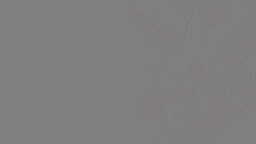
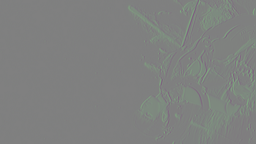
用原始 CUBIN 校正融合权重物理偏移

diff --git a/wechat/assets/297/block0_reference.py b/wechat/assets/297/block0_reference.py
@@ -39,7 +39,7 @@ def load_block0(
     tensors: dict[str, torch.Tensor] = {}
     for item in layout["tensors"]:
         begin = int(item["element_offset"])
-        if item["name"] == "attn_bias_padding":
+        if item["name"].endswith("padding"):
             continue
         if item.get("storage") == "float32_packed":
             count = int(np.prod(item["shape"]))
@@ -74,9 +74,6 @@ def load_fused_block(
         [
             ("weight1", (hidden, width)),
             ("weight2", (width, hidden)),
-            ("ffn_cos_skip", (width,)),
-            ("qkv_weight", (3 * width // 2, width)),
-            ("attn_bias", (heads, 64, 64)),
         ]
     )
     tensors: dict[str, torch.Tensor] = {}
@@ -87,7 +84,21 @@ def load_fused_block(
             values[offset : offset + count].astype(np.float32)
         ).reshape(shape)
         offset += count
-    offset += 16  # physical padding after the logical relative-attention bias
+    offset += 8
+    tensors["ffn_cos_skip"] = torch.from_numpy(
+        values[offset : offset + width].astype(np.float32)
+    )
+    offset += width
+    qkv_count = 3 * (width // 2) * width
+    tensors["qkv_weight"] = torch.from_numpy(
+        values[offset : offset + qkv_count].astype(np.float32)
+    ).reshape(3 * width // 2, width)
+    offset += qkv_count
+    bias_count = heads * 64 * 64
+    tensors["attn_bias"] = torch.from_numpy(
+        values[offset : offset + bias_count].astype(np.float32)
+    ).reshape(heads, 64, 64)
+    offset += bias_count
     scale = np.frombuffer(values[offset : offset + 16].tobytes(), dtype="<f4", count=heads).copy()
     tensors["attn_scale"] = torch.from_numpy(scale)
     offset += 16
@@ -101,10 +112,13 @@ def load_fused_block(
     )
     offset += width
     tail = values.size - offset
-    if tail not in (0, 8, allowed_extra):
+    padding = 16 if width == 256 else 8
+    if tail not in (padding, padding + allowed_extra):
         raise ValueError(f"block{block}: unexplained fused tail {values.size - offset}")
-    if tail == allowed_extra and allowed_extra:
-        tensors["_extra"] = torch.from_numpy(values[offset:].astype(np.float32))
+    if tail == padding + allowed_extra and allowed_extra:
+        tensors["_extra"] = torch.from_numpy(
+            values[offset : values.size - padding].astype(np.float32)
+        )
     return tensors
 
 

diff --git a/wechat/assets/297/infer_fused_layouts.py b/wechat/assets/297/infer_fused_layouts.py
@@ -20,13 +20,14 @@ def layout(width: int) -> list[tuple[str, int]]:
         [
             ("weight1", hidden * width),
             ("weight2", width * hidden),
+            ("pre_ffn_padding", 8),
             ("ffn_cos_skip", width),
             ("qkv_weight", 3 * (width // 2) * width),
             ("attn_bias", heads * 64 * 64),
-            ("attn_bias_padding", 16),
             ("attn_scale_float32_storage", 16),
             ("projection_weight", width * (width // 2)),
             ("attn_cos_skip", width),
+            ("tail_padding", 16 if width == 256 else 8),
         ]
     )
     return tensors
@@ -56,7 +57,7 @@ def main() -> None:
         for block in blocks:
             actual = int(by_name[f"block{block}.layer0.layer"]["element_count"])
             padding = actual - inferred
-            if padding not in (0, 8):
+            if padding != 0:
                 raise ValueError(
                     f"block{block} width {width}: actual={actual}, inferred={inferred}"
                 )

diff --git a/wechat/assets/297/d3d12_weight_arena_test.cpp b/wechat/assets/297/d3d12_weight_arena_test.cpp
@@ -330,7 +330,7 @@ void preview(uint3 id : SV_DispatchThreadID) {
             value += hidden[hidden_channel] *
                 load_half(2560 + output_channel * 64 + hidden_channel);
         }
-        value += features[output_channel] * load_half(4608 + output_channel);
+        value += features[output_channel] * load_half(4616 + output_channel);
         uint byte_value = (uint)round(saturate(0.5 + value * 40.0) * 255.0);
         rgb |= byte_value << (output_channel * 8);
     }

diff --git a/wechat/assets/297/porting-worklog.md b/wechat/assets/297/porting-worklog.md
@@ -508,11 +508,11 @@ SASS 从 weight pointer `+0x40000` 读取每通道 skip 系数，把 `input * ff
 output = W2 * activation(W1 * input) + input * ffn_cos_skip
 ```
 
-将该公式回填 block0 后，RX 9070 XT 生成 `stellar-block0-ffn-residual.png`。固定线性显示范围内为低对比灰色浮雕，输入人物／装备轮廓仍可辨认。原始 PPM：
+将该公式回填 block0 后，basis oracle 又把 `ffn_cos_skip` 的物理起点从早期误判的 element 4608 校正为 4616（前置 8-element padding）。RX 9070 XT 用正确 offset 重跑并覆盖 `stellar-block0-ffn-residual.png`；固定线性显示范围内人物／装备轮廓明显可辨认。原始 PPM：
 
 ```text
[1 lines of base64/hex data omitted]
-min=0.462745 max=0.529412 mean=0.499949 stddev=0.00237699
[1 lines of base64/hex data omitted]
+min=0.368627 max=0.662745 mean=0.501223 stddev=0.00780887
 ```
 
 block0 下一段为 8×8 cosine attention。它需要让 64 个像素共享 Q/K/V，不能继续在单一像素 shader 中重复整个前端；下一步把当前宿主重构为多 pass FP32 feature buffers：pre+FFN pass 写 `[H,W,32]`，attention pass 按 8×8 window 读取，再做 projection／`attn_cos_skip`。
@@ -641,6 +641,24 @@ non-FP8 variant 不能直接消费该混合格式 blob；runtime 实际 FP8 vari
 - 因此「把 blob reshape 成 `[H,W,C]`」在 activation 和 matrix 两侧都不成立。
 
 这条本地 oracle 取代 5090 中间层 readback：后续在 Spark 用 finite basis + controlled weights 求完整 input/output/weight permutation，再把 unswizzle 规则用于 PyTorch 和 AMD HLSL。5090 只保留最终真实游戏帧验收用途。
+
+identity-weight basis scan 随后把 1H／32 flat layout 的 padding 与两个 skip 向量逐 element 钉死：
+
+```text
+weight1 + weight2     0..4095
+padding               4096..4103
+ffn_cos_skip          4104..4135
+qkv                   4136..5671
+attn_bias             5672..9767
+attn_scale region     9768..9783   (16 half slots; float32 per head)
+projection            9784..10295
+attn_cos_skip         10296..10327
+tail padding          10328..10335
+```
+
+scan 方法：保留真实 FFN prefix、清零 attention branch，逐个 FP16 weight slot 置 1；只有 10296–10327 各自控制 64 个 output bytes。反向固定 attention skip 后扫描 FFN 区，只有 4104–4135 命中。block0 在最前面多 512 elements（input adapter + depthwise），其余 offset 整体后移 512。`block0-tensor-layout.json`、通用 `fused-layouts.json` 和 AMD HLSL offset 已同步修正。
+
+修正后的 256×144 AMD adapter+depthwise+FFN residual submit→fence 为 `0.395 ms`；此数字仍不含初始化与完整 attention/network。
 
 抓取完成后已退出游戏并从游戏目录移除 probe；`probe_exists=false`。RenoDX + DLSSNR 主测试环境未改动。
 
